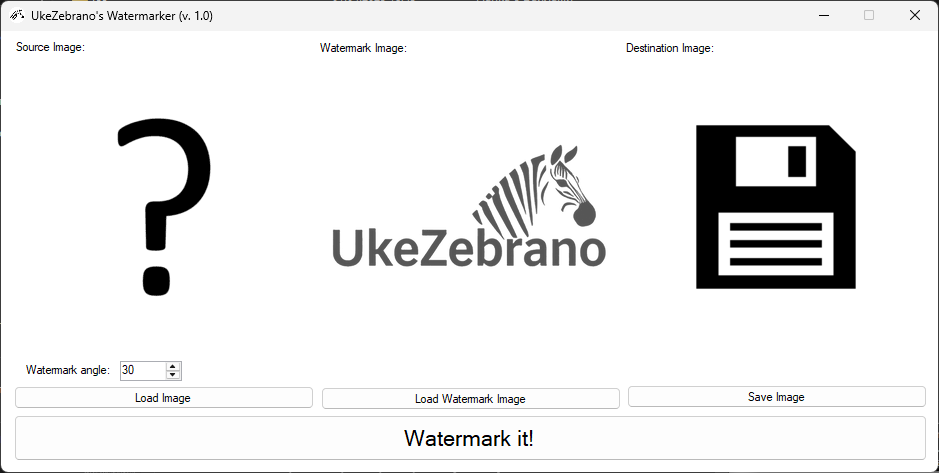
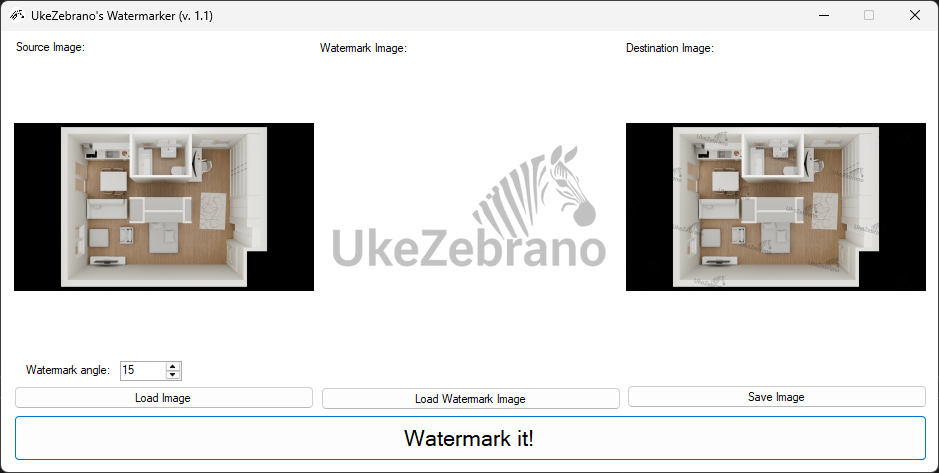
README.md modified

Changed region(s): [[0.0, 0.2368, 0.9883, 0.6216], [0.9883, 0.9767, 1.0, 1.0], [0.1235, 0.7696, 0.1544, 0.7992]]

diff --git a/README.md b/README.md
@@ -2,3 +2,7 @@
 The main screen of the application:
 
 ![](appscreen.png)
+
+**Version 1.1 update:**
+    
+    - Full coverage of the image with the watermark used. The watermark image is used as a template in a checkerboard pattern.    
